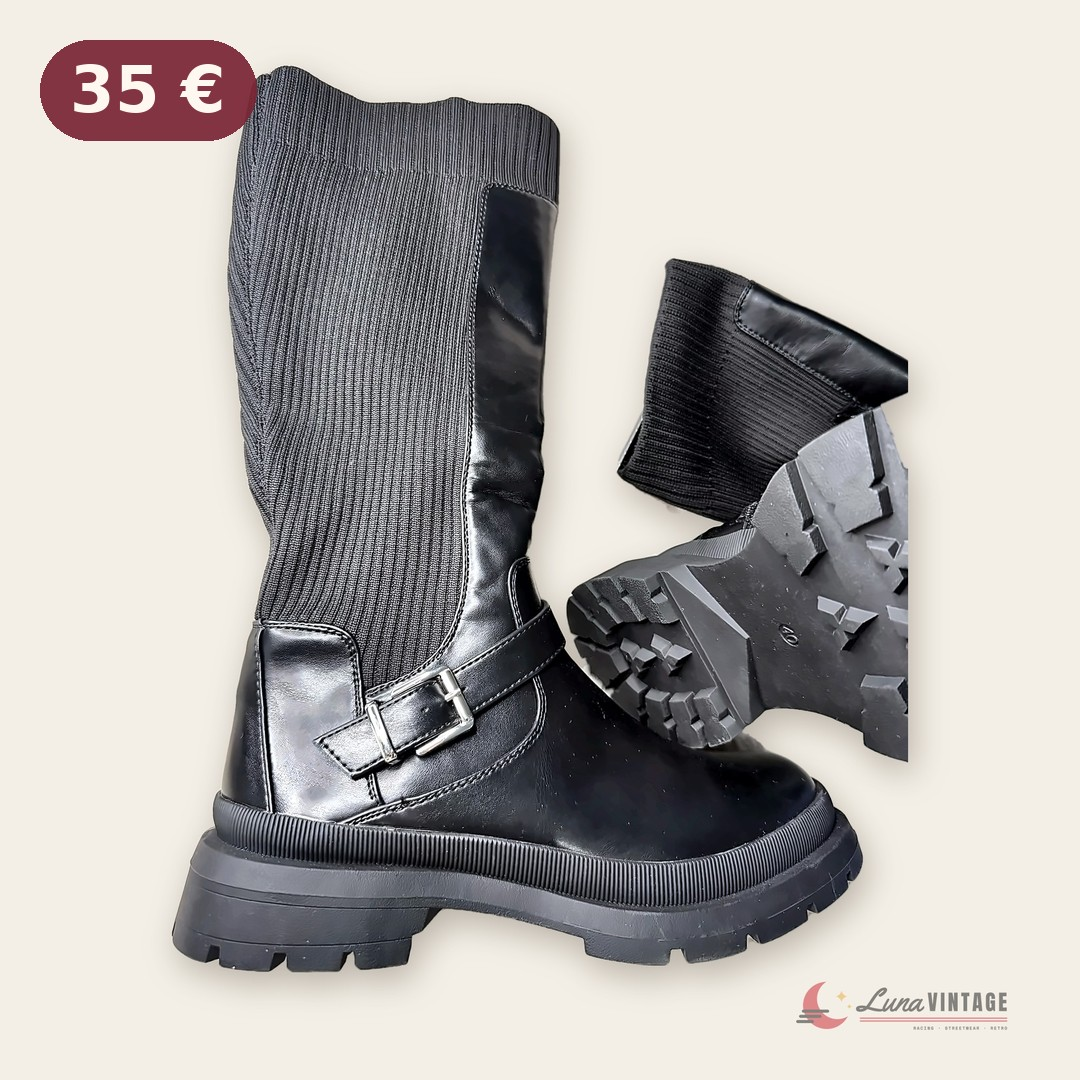
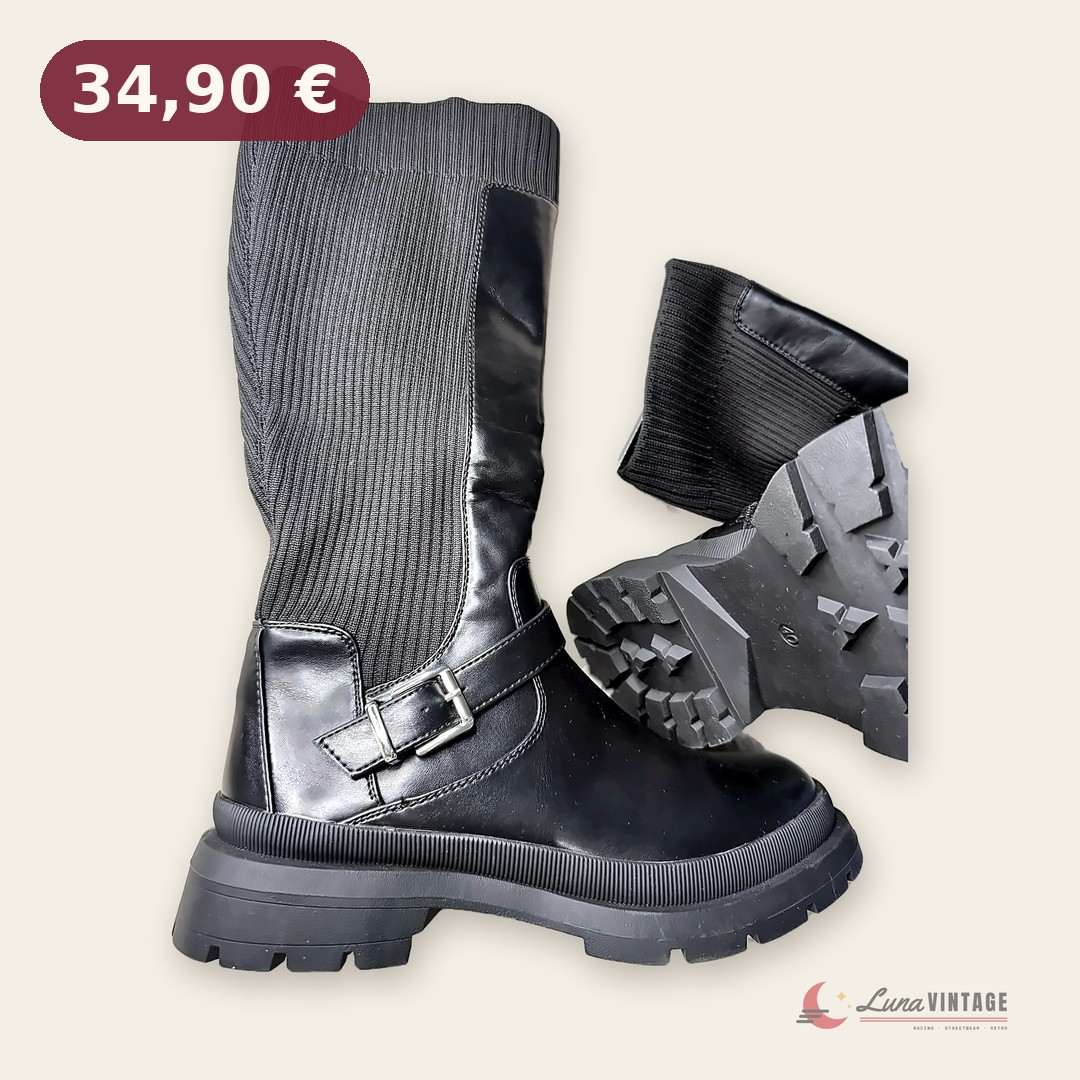
Precio botas 34,90
Claude-Session: https://claude.ai/code/session_01U4Co1rGfzCPQ16g2SSdqwX

Changed region(s): [[0.0917, 0.0306, 0.3667, 0.1528]]

diff --git a/brand/drop2/galeria.html b/brand/drop2/galeria.html
@@ -8,7 +8,7 @@ figcaption{padding:12px 14px;display:flex;justify-content:space-between;gap:10px
 <figure><img src="fb/02_24_sudadera_essentials_gris_fb.jpg" alt=""><figcaption><b>2.</b> Sudadera con capucha Fear of God Essentials gris · Talla XS<span>65 €</span></figcaption></figure>
 <figure><img src="fb/03_25_camiseta_essentials_blanca_fb.jpg" alt=""><figcaption><b>3.</b> Camiseta Fear of God Essentials blanca · Talla XS<span>35 €</span></figcaption></figure>
 <figure><img src="fb/04_26_zapatillas_nike_court_mid_fb.jpg" alt=""><figcaption><b>4.</b> Zapatillas Nike Court Borough Mid gris y blanco<span>120 €</span></figcaption></figure>
-<figure><img src="fb/05_27_botas_calcetin_negras_fb.jpg" alt=""><figcaption><b>5.</b> Botas calcetín negras con hebilla y suela track<span>35 €</span></figcaption></figure>
+<figure><img src="fb/05_27_botas_calcetin_negras_fb.jpg" alt=""><figcaption><b>5.</b> Botas calcetín negras con hebilla y suela track<span>34,90 €</span></figcaption></figure>
 <figure><img src="fb/06_28_zapatillas_lancetti_negras_fb.jpg" alt=""><figcaption><b>6.</b> Zapatillas Lancetti blanco y negro plataforma<span>30 €</span></figcaption></figure>
 <figure><img src="fb/07_29_zapatillas_lancetti_azul_fb.jpg" alt=""><figcaption><b>7.</b> Zapatillas Lancetti blancas y azul plataforma · Talla 38<span>30 €</span></figcaption></figure>
 <figure><img src="fb/08_30_botines_tacon_negros_fb.jpg" alt=""><figcaption><b>8.</b> Botines negros de tacón ancho con cremallera<span>30 €</span></figcaption></figure>
